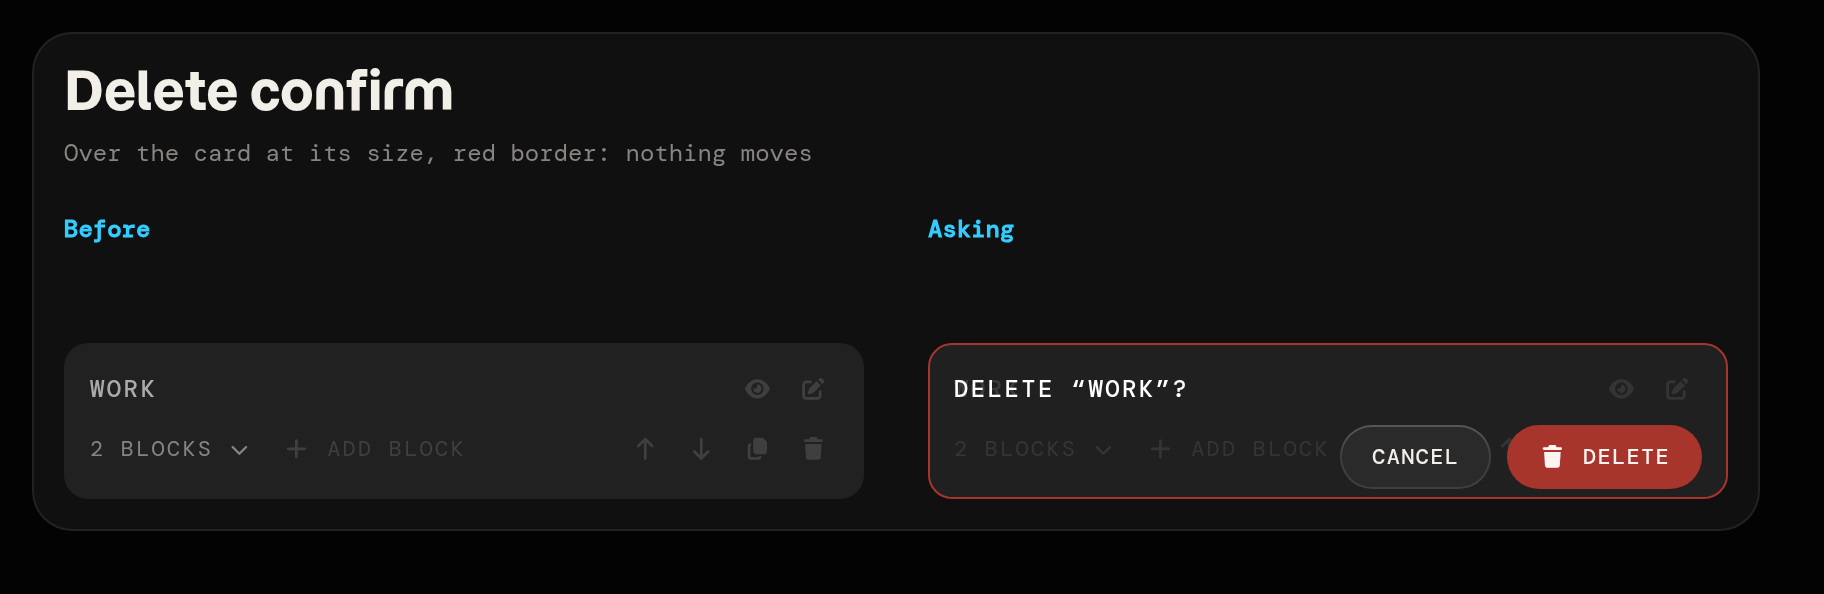
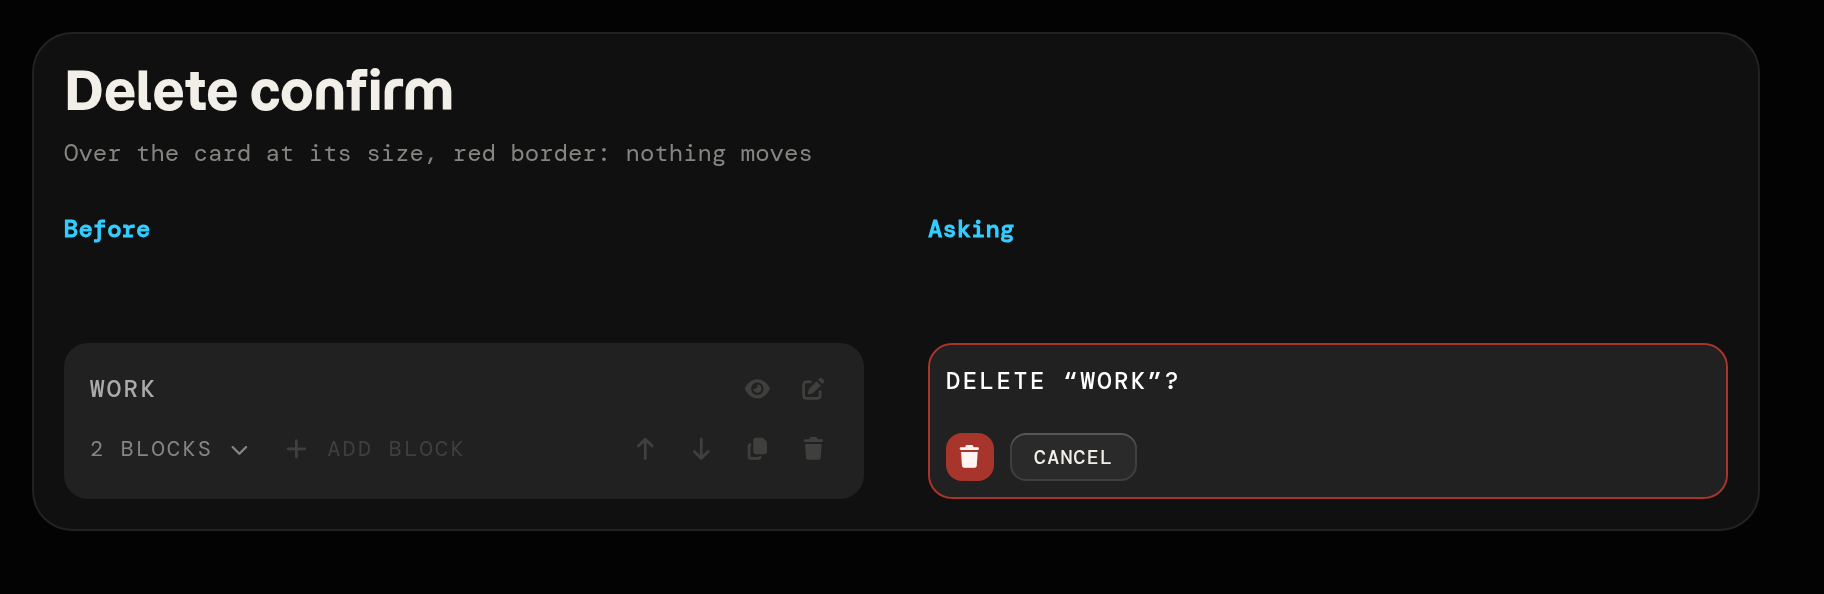
Editor: card titles and caret on the right, the new delete confirms
Section.svelte: the caret moves to the bar's right end (an 8px column, every collapsible card).
Settings cards drop their eyebrows (Site, Page transition): Name & details, SEO, Forms, Layout,
Typography, Photos, Redirects, Curtain, Page fade.
Delete confirms (SectionCard, BlockRow): over the card or row at its size and corners, Delete as
an icon-only red trash then Cancel, both 24px with 8px corners (.ask-btns; Button stays a pill),
a uniform inset (card 8px, 48px row 12px), one-line question: the 78px card no longer scrolls.
Kit docs regenerated.

diff --git a/src/editor/svelte/Section.svelte b/src/editor/svelte/Section.svelte
@@ -1,13 +1,13 @@
 <!--
-  A collapsible panel section: a bar (a toggle button with the caret and title, then the `bar`
-  snippet's controls) and the body, clipped and inert while closed (it stays in the DOM, so a field picked
+  A collapsible panel section: a bar (a toggle button with the title, the `bar` snippet's
+  controls, then the caret at its right end) and the body, clipped and inert while closed (it stays in the DOM, so a field picked
   in the preview can be found and its section opened). Used by the Content, Motion and Settings
   tabs and the Animations library (with onenter, an always open card a click selects and a
   double click or its pen goes into: the page's section cards). .sec is a flex column: bar, body (.sec__body > .sec__clip > .sec__inner).
 
     title     the bar title (small caps)
     name      optional: what it is, on a second line in the accent color
-              ("Page transition" / "Curtain")
+              (Motion: "Section 2" / "Work")
     key       remembers open/closed in ui.sections (also kept across a refresh, persist.js),
               e.g. "settings:site"; without it the section just starts as `open`
     open      open when nothing is remembered yet (default true)
@@ -111,7 +111,6 @@
 </script>
 
 {#snippet head()}
-  {#if !onenter}<i class="fa-solid fa-chevron-right sec__caret" aria-hidden="true"></i>{/if}
   <span>{title}</span>
   {#if name}<strong>{name}</strong>{/if}
 {/snippet}
@@ -149,6 +148,16 @@
       </button>
     {/if}
     {@render bar?.()}
+    {#if !onenter}
+      <!-- the caret at the bar's right end: a pointer target (the title is the keyboard's) -->
+      <button
+        type="button"
+        class={['sec__caret', isOpen && 'is-open']}
+        tabindex="-1"
+        aria-hidden="true"
+        onclick={toggle}><i class="fa-solid fa-chevron-right"></i></button
+      >
+    {/if}
     {#if onenter}
       <span class="sec__enter"
         ><Button
@@ -221,13 +230,12 @@
     padding: var(--space-2);
   }
 
-  // caret | title, with the name under the title
+  // the title, with the name under it
   .sec__toggle {
     flex: 1;
     min-width: 0;
     display: grid;
-    grid-template-columns: 20px minmax(0, 1fr);
-    column-gap: var(--space-1);
+    grid-template-columns: minmax(0, 1fr);
     padding: 0;
     border: 0;
     border-radius: var(--radius-sm);
@@ -249,7 +257,6 @@
 
     // a card's title: plain text (no caret, not a button), its colour never changes
     &.sec__toggle--card {
-      grid-template-columns: minmax(0, 1fr);
       cursor: default;
 
       &:hover {
@@ -259,24 +266,36 @@
 
     // the name under the title, like .grp__title strong
     strong {
-      grid-column: -2;
       font-weight: 400;
       color: var(--c-brand);
     }
   }
 
-  // (display comes from Font Awesome's .fa-solid)
+  // the caret: the bar's last item, an 8px column at its right end (the bar's 8px inset: the
+  // fields' right edge); right closed, down open
   .sec__caret {
-    width: 20px;
+    display: grid;
+    place-items: center;
+    width: 8px;
     height: 20px;
+    padding: 0;
+    border: 0;
+    background: none;
     color: var(--c-text-muted);
     font-size: var(--fs-xs);
-    line-height: 20px;
-    text-align: center;
-    transition: rotate 0.15s;
+    cursor: pointer;
 
-    [aria-expanded='true'] > & {
+    > i {
+      transition: rotate 0.15s;
+    }
+
+    &.is-open > i {
       rotate: 90deg;
+    }
+
+    .sec__toggle:hover ~ &,
+    &:hover {
+      color: var(--c-text-strong);
     }
   }
 

diff --git a/src/editor/svelte/SectionCard.svelte b/src/editor/svelte/SectionCard.svelte
@@ -70,7 +70,7 @@
   }
 
   // the delete confirm: Cancel takes the focus (Enter does not delete by accident)
-  const focusCancel = (el) => el.querySelector('button')?.focus();
+  const focusCancel = (el) => el.querySelector('.ask-btns > :last-child')?.focus();
 </script>
 
 <Section
@@ -104,7 +104,7 @@
 
   {#snippet over()}
     {#if asking}
-      <!-- over the card at its size: the question at the top, Cancel / Delete at the bottom -->
+      <!-- over the card at its size and corners: the question top left, Delete / Cancel bottom left -->
       <div
         class="ask"
         role="alertdialog"
@@ -114,17 +114,19 @@
         onkeydown={(e) => e.key === 'Escape' && (e.stopPropagation(), (deleting = ''))}
       >
         <p class="ask__msg">{name ? `Delete “${name}”?` : `Delete ${title}?`}</p>
-        <div class="ask__btns">
-          <Button size="small" onclick={() => (deleting = '')}>Cancel</Button>
+        <div class="ask-btns">
           <Button
             size="small"
             variant="danger"
             icon="trash"
+            iconOnly
+            label="Delete"
             onclick={() => {
               deleting = '';
               removeSection(live.store, file, at);
-            }}>Delete</Button
-          >
+            }}
+          />
+          <Button size="small" onclick={() => (deleting = '')}>Cancel</Button>
         </div>
       </div>
     {/if}
@@ -322,21 +324,22 @@
 
   // Delete?: over the card at its size (no shift): the card's colour at 80% hides what is
   // under it; the question at the top, Cancel / Delete at the bottom, 12px in
+  // the card's confirm: over it at its size and corners (inside its red border), opaque, 8px in
+  // on every side: 8 + 20 + 24 + 8 = 60px fits the 78px card (one line: never scrolls)
   .ask {
+    @include stack(var(--space-2));
     position: absolute;
     inset: 0;
     z-index: 2;
-    display: flex;
-    flex-direction: column;
-    justify-content: space-between;
-    gap: var(--space-2);
-    padding: var(--space-3);
-    overflow: auto;
+    align-content: space-between;
+    padding: var(--space-2);
+    overflow: hidden;
     border-radius: inherit;
-    background: color-mix(in srgb, var(--c-card) 80%, transparent);
+    background: var(--c-card);
   }
 
   .ask__msg {
+    @include ellipsis;
     margin: 0;
     color: var(--c-text-strong);
     font-size: var(--fs-base);
@@ -344,13 +347,5 @@
     letter-spacing: 0.1em;
     line-height: 20px;
     text-transform: uppercase;
-    overflow-wrap: anywhere;
-  }
-
-  .ask__btns {
-    display: flex;
-    flex: none;
-    justify-content: flex-end;
-    gap: var(--space-2);
   }
 </style>

diff --git a/src/editor/svelte/SettingsPanel.svelte b/src/editor/svelte/SettingsPanel.svelte
@@ -91,7 +91,7 @@
 </script>
 
 <section class="ed-body">
-  <Section key="settings:site" title="Site" name="Name & details">
+  <Section key="settings:site" title="Name & details">
     <p class="hint">
       Used on every page: the clock and search engines' details about you. The preview shows them
       after Save.
@@ -108,7 +108,7 @@
     {/each}
   </Section>
 
-  <Section key="settings:seo" title="Site" name="SEO">
+  <Section key="settings:seo" title="SEO">
     <p class="hint">
       What search engines and share cards show. Pages can set their own in Content > SEO; these are
       the defaults.
@@ -137,7 +137,7 @@
     </div>
   </Section>
 
-  <Section key="settings:forms" title="Site" name="Forms">
+  <Section key="settings:forms" title="Forms">
     <p class="hint">
       Where contact forms send (a form can pick its own in Content). The Cloudflare function emails
       through Resend with the keys set in the Cloudflare Pages project, never here (see the README,
@@ -173,7 +173,7 @@
     </p>
   </Section>
 
-  <Section key="settings:layout" title="Site" name="Layout">
+  <Section key="settings:layout" title="Layout">
     <p class="hint">
       How wide a contained section is: columns of the {COLS}-column grid ({CONTAINED_MIN}–{COLS};
       {CONTAINED} by default), centred and never nearer the edges than the side margins. Its blocks keep
@@ -196,7 +196,7 @@
     </ul>
   </Section>
 
-  <Section key="settings:type" title="Site" name="Typography">
+  <Section key="settings:type" title="Typography">
     <p class="hint">
       The text styles of scaled text (a text block's Layout › Scale text), in cells of the
       {COLS}-column grid (~11px at 1440px wide; on phones half a {MCOLS}-column cell), so the text
@@ -222,7 +222,7 @@
 
   <RedirectSettings {live} />
 
-  <Section key="settings:media" title="Site" name="Photos">
+  <Section key="settings:media" title="Photos">
     <p class="hint">
       Photos you upload in the editor go to Cloudflare R2 (keys in .env.local, see the README). The
       content stores their key (photos/…); the site shows them from this address. Photos in media/

diff --git a/src/editor/svelte/BlockRow.svelte b/src/editor/svelte/BlockRow.svelte
@@ -22,7 +22,7 @@
   const name = $derived(nameOf(block));
   const on = $derived(block?.config?.enabled !== false);
   // the confirm's Cancel takes the focus (Enter does not delete by accident)
-  const focusCancel = (el) => el.querySelector('button:last-child')?.focus();
+  const focusCancel = (el) => el.querySelector('.ask-btns > :last-child')?.focus();
 </script>
 
 <li class={['brow', !on && 'is-off']} data-row>
@@ -60,16 +60,20 @@
       onkeydown={(e) => e.key === 'Escape' && (e.stopPropagation(), (asking = false))}
     >
       <span>Delete {label}?</span>
-      <Button
-        size="small"
-        variant="danger"
-        icon="trash"
-        onclick={() => {
-          asking = false;
-          ondelete();
-        }}>Delete</Button
-      >
-      <Button size="small" onclick={() => (asking = false)}>Cancel</Button>
+      <span class="ask-btns">
+        <Button
+          size="small"
+          variant="danger"
+          icon="trash"
+          iconOnly
+          label="Delete"
+          onclick={() => {
+            asking = false;
+            ondelete();
+          }}
+        />
+        <Button size="small" onclick={() => (asking = false)}>Cancel</Button>
+      </span>
     </div>
   {/if}
 </li>
@@ -139,18 +143,20 @@
     }
   }
 
-  // Delete?: over the row at its size, its text where the row's is
+  // Delete?: over the row at its size and corners, one line, 12px in on every side (24px
+  // buttons in the 48px row), a red line
   .brow__ask {
-    @include row(var(--space-2));
+    @include row(var(--space-3));
     position: absolute;
     inset: 0;
     z-index: 1;
-    padding: 0 var(--space-2) 0 var(--space-3);
+    padding: 0 var(--space-3);
     border-radius: inherit;
     background: var(--c-surface-2);
+    box-shadow: inset 0 0 0 1px var(--c-danger);
     font-size: var(--fs-base);
 
-    span {
+    > span:first-child {
       @include ellipsis;
       flex: 1;
     }

diff --git a/src/editor/styles/editor.scss b/src/editor/styles/editor.scss
@@ -522,6 +522,33 @@ kbd {
   font-size: var(--fs-sm);
 }
 
+// a delete confirm's buttons over a card or row (SectionCard, BlockRow): Delete (an icon-only red
+// trash) then Cancel, both 24px with 8px corners: these only, Button.svelte stays a pill
+.ask-btns {
+  @include row(var(--space-2));
+  flex: none;
+
+  > .btn.btn--small {
+    border-radius: var(--radius-md);
+  }
+
+  > .btn.btn--small:not(.btn--icon) {
+    padding: var(--space-1) var(--space-3);
+    font-size: var(--fs-xs);
+  }
+
+  > .btn.btn--icon.btn--danger,
+  > .btn.btn--icon.btn--danger:hover:not(:disabled) {
+    color: var(--c-on-danger);
+    font-size: var(--fs-sm);
+    background: var(--c-danger);
+  }
+
+  > .btn.btn--icon.btn--danger:hover:not(:disabled) {
+    background: var(--c-danger-hover);
+  }
+}
+
 // text fields (Field.svelte, also used by the curtain timeline)
 .tf {
   display: block;

diff --git a/src/editor/svelte/RedirectSettings.svelte b/src/editor/svelte/RedirectSettings.svelte
@@ -58,7 +58,7 @@
   const setTo = (i, value) => setKey(i, 'to', value === EXTERNAL ? 'https://' : value);
 </script>
 
-<Section key="settings:redirects" title="Site" name="Redirects" open={false}>
+<Section key="settings:redirects" title="Redirects" open={false}>
   <p class="hint">
     Old addresses that send visitors on (dist/_redirects, for Cloudflare Pages). Renaming or
     deleting a page and changing an item's slug add them by themselves. /old/:slug/ stands for every

diff --git a/src/editor/svelte/CurtainSection.svelte b/src/editor/svelte/CurtainSection.svelte
@@ -86,7 +86,7 @@
   />
 {/snippet}
 
-<Section class="ptg" key="settings:curtain" title="Page transition" name="Curtain">
+<Section class="ptg" key="settings:curtain" title="Curtain">
   <p class="hint">
     The curtain every page uses, unless a page turns it off (Content → Transitions). Drag the bar
     ends or type the values. Changes apply to the next page change in the preview.

diff --git a/src/editor/svelte/PageFadeSection.svelte b/src/editor/svelte/PageFadeSection.svelte
@@ -53,7 +53,7 @@
   }
 </script>
 
-<Section class="ptg" key="settings:fade" title="Page transition" name="Fade">
+<Section class="ptg" key="settings:fade" title="Page fade">
   <p class="hint">
     The old page fades out, the new one fades in: the whole page change when a page's curtain is
     Off, behind the curtain otherwise. Duration and ease.

diff --git a/sandbox/MOCKUP-PROTOCOL.md b/sandbox/MOCKUP-PROTOCOL.md
@@ -207,8 +207,12 @@ Own data: `sampleLive([{ id: 's-1', name: 'Work', enabled: false, blocks: [block
 - Buttons rest at 30%: the card's at 100% on its hover, selection or a focus in it; a block
   row's on that row's hover or focus. An eye-slash (hidden) always 100%; the count not dimmed.
 - Hidden: the title muted, its blocks at 55%. Changed: a 6px `#33ccff` dot, no shift.
-- Delete: over the card at its size, the card's colour at 80%, red border, the question at the
-  top, Cancel / Delete at the bottom right, 12px in. A block's: over its row.
+- Delete: over the card at its size and 12px corners, opaque, red border, the question (one
+  line) at the top, Delete (an icon-only red trash) then Cancel at the bottom left, both 24px
+  with 8px corners, 8px in on every side (never scrolls). A block's: one line over its 48px row,
+  its 8px corners, the question 12px in, the buttons 12px from the top, bottom and right.
+- Cards: top level (section, Settings, Pages window rows) `--radius-lg` 12px; nested (block
+  rows) `--radius-md` 8px. A collapsible card's caret is at its bar's right end.
 
 ![Section card states](docs/section-card-states.png)
 ![Delete confirm](docs/section-card-delete.png)

diff --git a/README.md b/README.md
@@ -926,7 +926,7 @@ deleting a page with unsaved edits asks for Save first. Publish commits the new 
 files. `&pages=/people/` in the URL reopens it on that folder. There's also a phone (390 px) preview toggle.
 
 In the Content panel every **section** of the page is a box (Section 1, 2, …, with its name
-under it when it has one): ↑ / ↓ move it, **Duplicate** copies it below (new ids), **Delete** asks first, the switch
+under it when it has one): ↑ / ↓ move it, **Duplicate** copies it below (new ids), **Delete** asks first (over the card: the trash then Cancel), the switch
 turns it on/off, and the caret folds it. Under the bar are its settings (**Name**, the whole row, empty by
 default, with the `#anchor` it makes shown under it, or what's wrong with it: taken by another
 section on the page, …; then side by side **Height**, five quiet icon buttons with tooltips: custom
